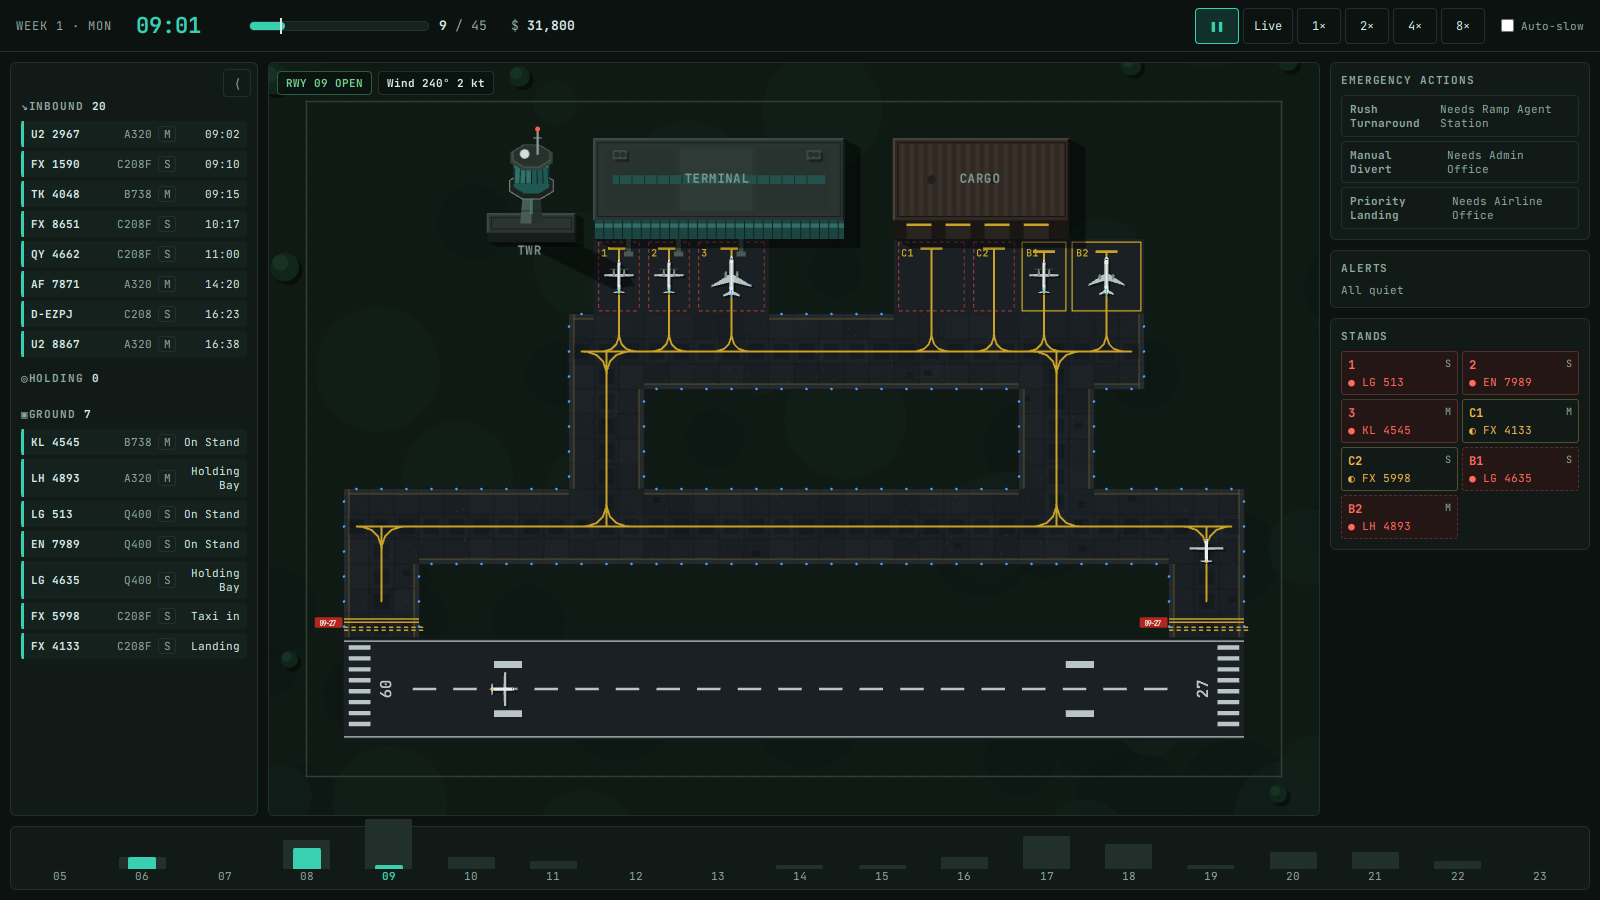
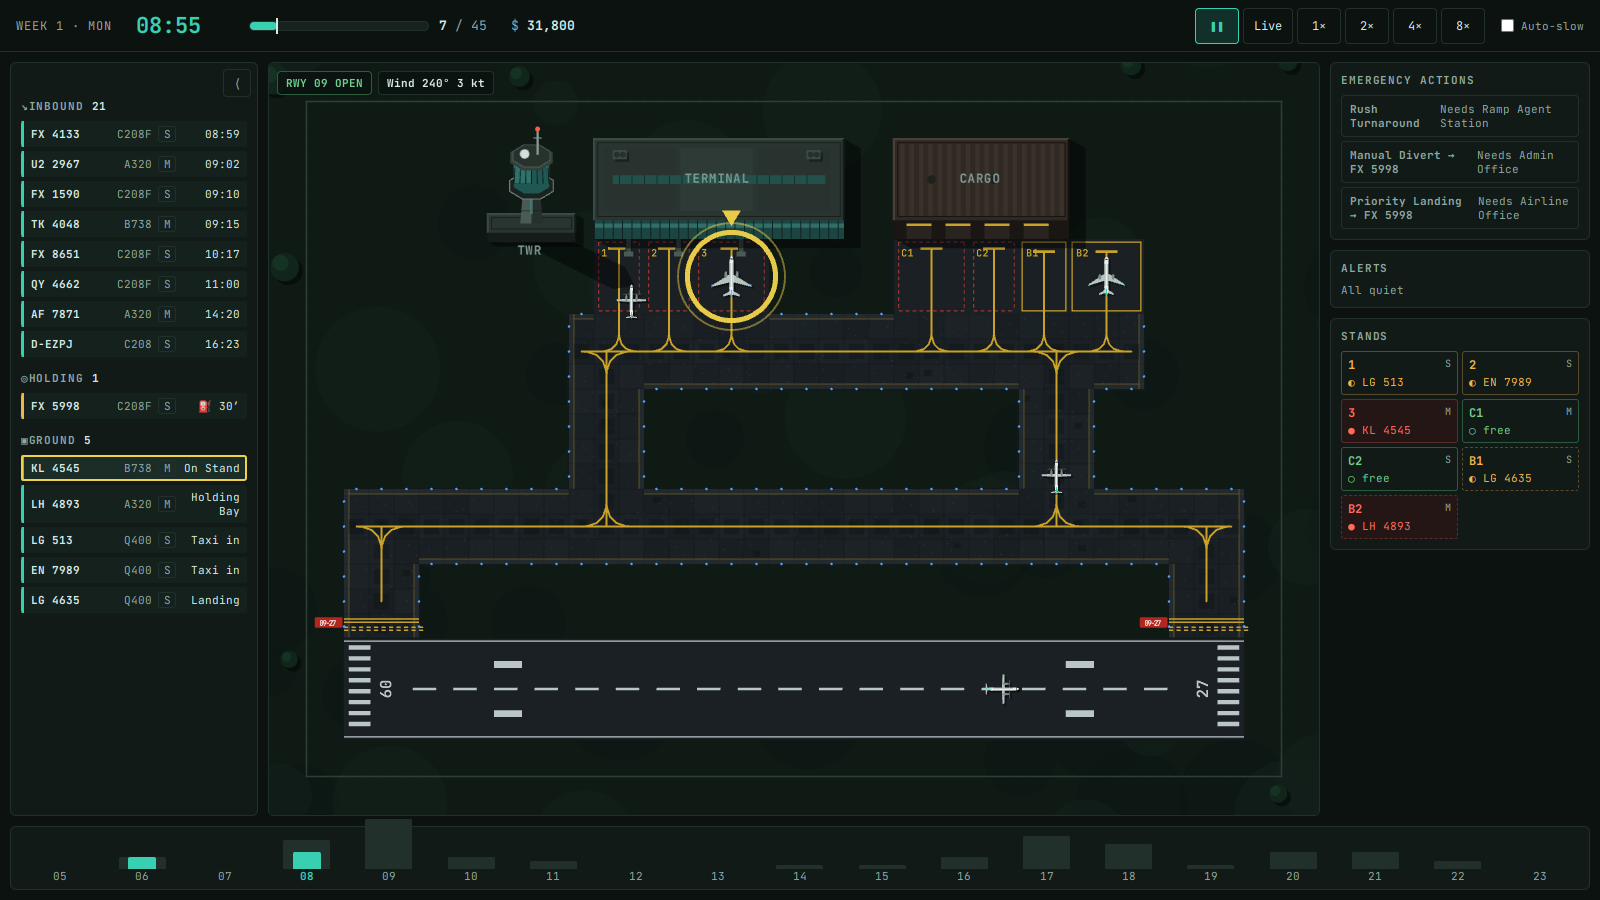
Click a flight strip or alert to ring its aircraft on the map (#70)
Claude-Session: https://claude.ai/code/session_017hX3Qn5kxjmg8hzks2eA6J

diff --git a/src/ui/liveDay.ts b/src/ui/liveDay.ts
@@ -16,6 +16,8 @@ export interface LiveDayView {
   update(sim: Simulation, quota: number): void;
   /** Shows a short message under the Emergency Actions (e.g. why an action failed). */
   message(text: string): void;
+  /** The aircraft picked from a flight strip or an alert, to ring on the map (none: undefined). */
+  highlighted(): string | undefined;
 }
 
 export interface LiveDayHandlers {
@@ -36,16 +38,35 @@ const BUILDING: Record<string, string> = ROLE_NAME;
 export function mountLiveDay(root: HTMLElement, handlers: LiveDayHandlers): LiveDayView {
   const $ = <T extends HTMLElement>(sel: string) => root.querySelector<T>(sel)!;
   let selected: string | undefined;
+  let highlight: string | undefined;
+  const rail = $('#rail');
   let lastAlertKey = '';
   let current: Simulation | undefined;
 
-  $('.strips[data-group="holding"] ol').addEventListener('click', (e) => {
-    const li = (e.target as HTMLElement).closest<HTMLElement>('li[data-id]');
-    if (!li) return;
-    selected = selected === li.dataset.id ? undefined : li.dataset.id;
+  /** Picks an aircraft (or drops it when picked again): its strip lights up and it is ringed on the map. */
+  const pick = (id: string, holding: boolean) => {
+    highlight = highlight === id ? undefined : id;
+    if (holding) selected = highlight; // a Holding aircraft is also the target of Manual Divert / Priority Landing
+    rail.classList.remove('collapsed');
     lastRender = -1;
     if (current) view.update(current, lastQuota);
-  });
+    root.querySelector(`.strip[data-id="${CSS.escape(id)}"]`)?.scrollIntoView({ block: 'nearest' });
+  };
+  const onPick = (e: Event) => {
+    const li = (e.target as HTMLElement).closest<HTMLElement>('li[data-id]');
+    if (li) pick(li.dataset.id!, !!li.closest('.strips[data-group="holding"]'));
+  };
+  const onKeyPick = (e: KeyboardEvent) => {
+    if ((e.key === 'Enter' || e.key === ' ') && (e.target as HTMLElement).matches('li[data-id]')) {
+      e.preventDefault();
+      e.stopPropagation();
+      onPick(e);
+    }
+  };
+  $('#rail').addEventListener('click', onPick);
+  $('#rail').addEventListener('keydown', onKeyPick);
+  $('#alerts').addEventListener('click', onPick);
+  $('#alerts').addEventListener('keydown', onKeyPick);
   $('#actions').addEventListener('click', (e) => {
     const button = (e.target as HTMLElement).closest<HTMLButtonElement>('button[data-action]');
     if (button && !button.disabled) handlers.onAction(button.dataset.action as ActionId, selected);
@@ -58,7 +79,6 @@ export function mountLiveDay(root: HTMLElement, handlers: LiveDayHandlers): Live
       handlers.onAcknowledgeAlert();
     }
   });
-  const rail = $('#rail');
   const toggle = $<HTMLButtonElement>('#rail-toggle');
   toggle.addEventListener('click', () => {
     const collapsed = rail.classList.toggle('collapsed');
@@ -69,8 +89,10 @@ export function mountLiveDay(root: HTMLElement, handlers: LiveDayHandlers): Live
 
   let lastRender = -1;
   let lastEvents = -1;
+  let lastHighlight: string | undefined;
   let lastQuota = 0;
   const view: LiveDayView = {
+    highlighted: () => highlight,
     message(text) {
       $('#action-msg').textContent = text;
     },
@@ -82,6 +104,9 @@ export function mountLiveDay(root: HTMLElement, handlers: LiveDayHandlers): Live
       if (now === lastRender) return;
       lastRender = now;
       if (selected && !sim.flights.some((f) => f.id === selected && f.phase === 'holding')) selected = undefined;
+      if (highlight && !sim.flights.some((f) => f.id === highlight && !['departed', 'diverted', 'crashed'].includes(f.phase))) highlight = undefined;
+      const lit = (id: string) => (id === highlight ? ' highlight' : '');
+      const pickable = (id: string) => `data-id="${esc(id)}" tabindex="0" aria-pressed="${id === highlight}"`;
 
       // Quota bar
       const q = quotaProgress(sim, quota);
@@ -107,12 +132,15 @@ export function mountLiveDay(root: HTMLElement, handlers: LiveDayHandlers): Live
         section.querySelector('.count')!.textContent = String(count);
         section.querySelector('ol')!.innerHTML = items.join('');
       };
-      fill('inbound', strips.inbound.slice(0, 8).map((f) =>
-        `<li class="strip" title="${esc(`${f.spoken} · ${f.type} · ${f.purpose} · arrives ${hhmm(f.eta)}`)}"><b>${esc(f.callsign)}</b><span>${f.type}</span><span class="size">${SIZE[f.size]}</span><span class="t">${hhmm(f.eta)}</span></li>`), strips.inbound.length);
+      const inbound = strips.inbound.slice(0, 8);
+      const picked = strips.inbound.find((f) => f.id === highlight);
+      if (picked && !inbound.includes(picked)) inbound.push(picked);
+      fill('inbound', inbound.map((f) =>
+        `<li ${pickable(f.id)} class="strip${lit(f.id)}" title="${esc(`${f.spoken} · ${f.type} · ${f.purpose} · arrives ${hhmm(f.eta)}`)}"><b>${esc(f.callsign)}</b><span>${f.type}</span><span class="size">${SIZE[f.size]}</span><span class="t">${hhmm(f.eta)}</span></li>`), strips.inbound.length);
       fill('holding', strips.holding.map((f) =>
-        `<li data-id="${esc(f.id)}" tabindex="0" class="strip${f.lowFuel ? ' low' : ''}${f.id === selected ? ' selected' : ''}" title="${esc(`${f.spoken} · ${f.type} · Holding since ${hhmm(f.since)} · Fuel Reserve ${Math.ceil(f.fuelMinutes)} min`)}"><b>${esc(f.callsign)}</b><span>${f.type}</span><span class="size">${SIZE[f.size]}</span><span class="t fuel">⛽ ${Math.ceil(f.fuelMinutes)}′</span></li>`), strips.holding.length);
+        `<li ${pickable(f.id)} class="strip${f.lowFuel ? ' low' : ''}${f.id === selected ? ' selected' : ''}${lit(f.id)}" title="${esc(`${f.spoken} · ${f.type} · Holding since ${hhmm(f.since)} · Fuel Reserve ${Math.ceil(f.fuelMinutes)} min`)}"><b>${esc(f.callsign)}</b><span>${f.type}</span><span class="size">${SIZE[f.size]}</span><span class="t fuel">⛽ ${Math.ceil(f.fuelMinutes)}′</span></li>`), strips.holding.length);
       fill('ground', strips.ground.map((f) =>
-        `<li class="strip" title="${esc(`${f.spoken} · ${f.type} · ${(f.waiting ? 'Waiting' : PHASE[f.phase] ?? f.phase)}${f.spot ? ` · ${f.spot}` : ''}`)}"><b>${esc(f.callsign)}</b><span>${f.type}</span><span class="size">${SIZE[f.size]}</span><span class="t">${(f.waiting ? 'Waiting' : PHASE[f.phase] ?? f.phase)}</span></li>`), strips.ground.length);
+        `<li ${pickable(f.id)} class="strip${lit(f.id)}" title="${esc(`${f.spoken} · ${f.type} · ${(f.waiting ? 'Waiting' : PHASE[f.phase] ?? f.phase)}${f.spot ? ` · ${f.spot}` : ''}`)}"><b>${esc(f.callsign)}</b><span>${f.type}</span><span class="size">${SIZE[f.size]}</span><span class="t">${(f.waiting ? 'Waiting' : PHASE[f.phase] ?? f.phase)}</span></li>`), strips.ground.length);
 
       // Emergency Actions
       const availability = actionAvailability(sim);
@@ -127,10 +155,12 @@ export function mountLiveDay(root: HTMLElement, handlers: LiveDayHandlers): Live
       }).join('');
 
       // Alerts (only when something new happened)
-      if (sim.events.length !== lastEvents) {
+      if (sim.events.length !== lastEvents || highlight !== lastHighlight) {
         lastEvents = sim.events.length;
-        $('#alerts').innerHTML = alerts(sim).slice(0, 12).map((a) =>
-          `<li class="alert ${a.severity}"><span class="t">${hhmm(a.minute)}</span> ${esc(a.text)}</li>`).join('') || '<li class="empty">All quiet</li>';
+        lastHighlight = highlight;
+        $('#alerts').innerHTML = alerts(sim).slice(0, 12).map((a) => a.flightId
+          ? `<li class="alert ${a.severity} pickable${lit(a.flightId)}" ${pickable(a.flightId)} role="button" title="Show this aircraft"><span class="t">${hhmm(a.minute)}</span> ${esc(a.text)}</li>`
+          : `<li class="alert ${a.severity}"><span class="t">${hhmm(a.minute)}</span> ${esc(a.text)}</li>`).join('') || '<li class="empty">All quiet</li>';
       }
 
       // Stands

diff --git a/src/render/flights.ts b/src/render/flights.ts
@@ -258,6 +258,14 @@ export class FlightLayer {
   private minute = -1;
   /** Reduce motion: the beacon glows steadily and the strobes stay off instead of flashing. */
   calm = false;
+  /** The aircraft picked in the flight strips or alerts: drawn with a ring round it. */
+  highlight: string | undefined;
+  private readonly ring = new Graphics();
+
+  constructor() {
+    this.ring.zIndex = 5;
+    this.container.addChild(this.ring);
+  }
 
   /**
    * `darkness` 0 (day) … ~0.6 (night) from the daylight curve; lights fade in as it gets dark. `minute` and `fraction`
@@ -275,6 +283,7 @@ export class FlightLayer {
         this.sprites.delete(id);
       }
     }
+    this.ring.clear();
     this.lights.visible = darkness > 0.1;
     this.lights.alpha = Math.min(1, (darkness - 0.1) / 0.25);
     for (const f of flights) {
@@ -309,6 +318,14 @@ export class FlightLayer {
       s.shadow.position.set(pose.x + look.shadowOffset, pose.y + look.shadowOffset);
       s.shadow.rotation = rotation;
       s.shadow.alpha = look.shadowAlpha;
+      if (f.id === this.highlight) {
+        // a ring round it (pulsing gently, steady with Reduce motion) and a pointer above it
+        const radius = (SPECS[f.type].length * 0.75 + 4) * look.scale;
+        const pulse = this.calm ? 1 : 0.6 + 0.4 * Math.sin(nowMs / 250);
+        this.ring.circle(pose.x, pose.y, radius).stroke({ width: 1.6, color: 0xf0d24a, alpha: pulse });
+        this.ring.circle(pose.x, pose.y, radius + 3).stroke({ width: 0.6, color: 0xf0d24a, alpha: pulse * 0.5 });
+        this.ring.poly([pose.x, pose.y - radius - 2, pose.x - 3, pose.y - radius - 7, pose.x + 3, pose.y - radius - 7]).fill({ color: 0xf0d24a, alpha: pulse });
+      }
       if (!this.lights.visible) continue;
       const l = s.lights;
       l.root.position.set(pose.x, pose.y);

diff --git a/src/sim/liveView.ts b/src/sim/liveView.ts
@@ -71,6 +71,8 @@ export interface Alert {
   readonly kind: SimEvent['kind'];
   readonly severity: 'info' | 'warn' | 'danger';
   readonly text: string;
+  /** The aircraft it is about (none for a Runway change). */
+  readonly flightId: string | null;
 }
 
 const ALERT_TEXT: Record<SimEvent['kind'], [Alert['severity'], (id: string) => string]> = {
@@ -99,7 +101,10 @@ export function describeEvent(sim: Simulation, e: SimEvent): string {
 }
 
 export function alerts(sim: Simulation): Alert[] {
-  return [...sim.events].reverse().map((e) => ({ minute: e.minute, kind: e.kind, severity: ALERT_TEXT[e.kind][0], text: describeEvent(sim, e) }));
+  return [...sim.events].reverse().map((e) => ({
+    minute: e.minute, kind: e.kind, severity: ALERT_TEXT[e.kind][0], text: describeEvent(sim, e),
+    flightId: e.kind !== 'runwayChange' && sim.flights.some((f) => f.id === e.flightId) ? e.flightId : null,
+  }));
 }
 
 export interface SpotStatus {

diff --git a/src/sim/liveView.alerts.test.ts b/src/sim/liveView.alerts.test.ts
@@ -1,0 +1,15 @@
+import { describe, expect, it } from 'vitest';
+import { alerts } from './liveView';
+import { startingAirport } from './layout';
+import { createSimulation, stepSimulation, type Simulation } from './simulation';
+
+describe('Alerts point at their aircraft', () => {
+  it('an alert about a flight carries its id; a Runway change carries none', () => {
+    let s: Simulation = createSimulation({ layout: startingAirport(), schedule: [{ id: 'A', type: 'A320', arrivalMinute: 360 }], seed: 1, runwayBlockedUntil: 600 });
+    while (!s.events.some((e) => e.kind === 'diversion') && s.clock.minute < 600) s = stepSimulation(s);
+    const a = alerts(s).find((x) => x.kind === 'diversion')!;
+    expect(a.flightId).toBe('A');
+    const fake = { ...s, events: [...s.events, { minute: 500, kind: 'runwayChange' as const, flightId: 'RWY 27', cost: 0 }] };
+    expect(alerts(fake)[0]!.flightId).toBeNull();
+  });
+});

diff --git a/src/style.css b/src/style.css
@@ -83,6 +83,10 @@ h3 { margin: 0 0 8px; font: 600 11px var(--mono); letter-spacing: 0.08em; text-t
 #alerts { list-style: none; margin: 0; padding: 0; display: grid; gap: 4px; font-size: 11px; }
 .alert { padding: 4px 6px; border-radius: 3px; background: #15211d; }
 .alert .t { color: var(--mute); }
+.alert.pickable, .strip[data-id] { cursor: pointer; }
+.alert.pickable:hover, .strip[data-id]:hover { background: #1c2c27; }
+.strip.highlight, .alert.highlight { outline: 2px solid #f0d24a; outline-offset: -2px; background: #2a2a16; }
+.strip:focus-visible, .alert.pickable:focus-visible { outline: 2px solid var(--teal); outline-offset: -2px; }
 .alert.warn { color: var(--amber); }
 .alert.danger { color: var(--red); background: #2a1715; font-weight: 700; }
 .stand-grid { display: grid; grid-template-columns: repeat(auto-fill, minmax(84px, 1fr)); gap: 4px; }

diff --git a/src/main.ts b/src/main.ts
@@ -249,6 +249,7 @@ async function start(): Promise<void> {
     lastBackground = performance.now();
     play(ticker.deltaMS);
     flightLayer.calm = calmLights;
+    flightLayer.highlight = liveDay.highlighted();
     flightLayer.update(sim.flights, showDaylight(ended ? null : sim.clock.minute), performance.now(), sim.clock.minute, stepFraction(sim.clock));
     topBar.showClock(formatClock(sim.clock), isDayOver(sim.clock));
     liveDay.update(sim, quota);

diff --git a/docs/game-design.md b/docs/game-design.md
@@ -244,6 +244,11 @@ cooldown (`simulation.ts → ACTIONS`).
 - **Keys in a Live Day:** Space pauses / resumes (to the speed before), 1–5 pick Live / 1× / 2× / 4× / 8×, and D / M
   answer the low-fuel decision (Divert / Mayday). Build Mode: T S B R U L M D pick tools, 1–9 pick a variant tile, Enter
   confirms, Ctrl Z undoes, Esc frees the cursor. Buttons name their keys; the Main Menu lists them.
+- **Finding an aircraft:** clicking a flight strip (Inbound, Holding or Ground) or an alert about an aircraft picks
+  it: its strip is outlined in yellow (the rail opens and scrolls to it) and on the map it gets a gently pulsing yellow
+  ring with a pointer above it (steady with Reduce motion). Clicking it again drops it; it is dropped by itself when
+  the aircraft leaves. Picking a Holding aircraft also makes it the target of Manual Divert and Priority Landing.
+  Enter or Space on a focused strip or alert does the same.
 - **Never colour alone:** Stands and Holding Bays in the side panel say their state in words and a symbol (○ free,
   ◐ due with the arriving callsign, ● with the parked callsign); played Days on the Run Calendar carry ✓ or ✗;
   alerts start with what happened (CRASH, MAYDAY, …).

diff --git a/README.md b/README.md
@@ -17,7 +17,7 @@ Then open http://localhost:8080. Versions and their images are listed under [Rel
 | | |
 |---|---|
 | ![Live Day: flight strips, the airfield, Emergency Actions and the Quota bar](docs/screenshots/live-day.png) | ![Plan Mode: Forecast, Run Calendar and upgrades](docs/screenshots/plan-mode.png) |
-| **Live Day**: the ATC Tower handles the traffic; you watch the Quota, fuel and Alerts | **Plan Mode**: Forecast, Run Calendar with Twists, upgrades |
+| **Live Day**: the ATC Tower handles the traffic; you watch the Quota, fuel and Alerts, and click a strip or alert to ring its aircraft | **Plan Mode**: Forecast, Run Calendar with Twists, upgrades |
 | ![Build Mode: drawing Taxiways and placing Stands on the tile grid](docs/screenshots/build-mode.png) | ![The end-of-Day report](docs/screenshots/day-report.png) |
 | **Build Mode**: pick Stands, Runways and buildings from priced tiles; draw Taxiways, buy Land | **Day report**: money, traffic and safety at a glance |
 | ![Main Menu](docs/screenshots/main-menu.png) | ![Unlockables and Boosts](docs/screenshots/unlockables-boosts.png) |
